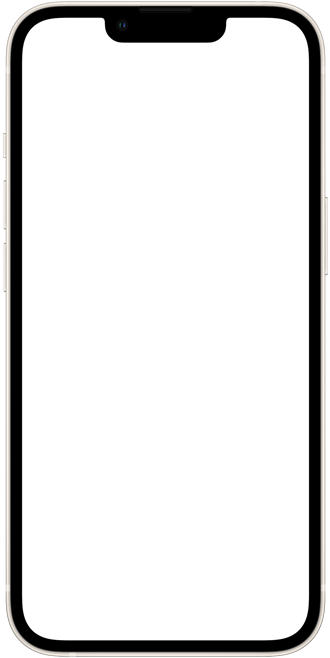
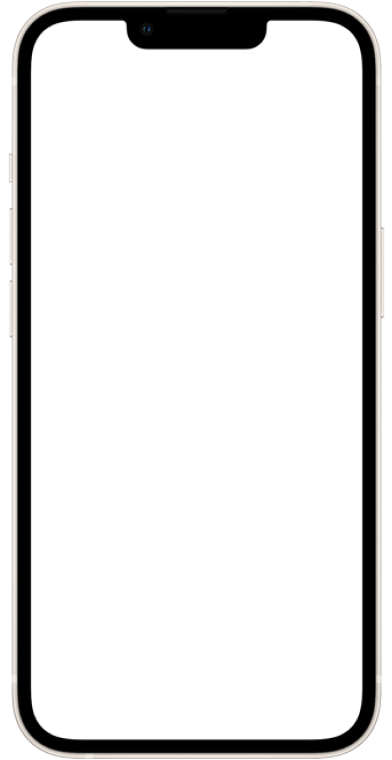
0206

diff --git a/main.js b/main.js
@@ -15,7 +15,7 @@
         {
             //section1
             scrollHeight:0,
-            heightNum:5,
+            heightNum:7,
             objs:{//조작할 돔 객체 모음
                 container: document.querySelector(".section1"),
                 centerMessage: document.querySelector('.section1-wrap .Main-title'),
@@ -38,14 +38,27 @@
 
                 image2_transition_top:[38,50,{start:0,end:0.5}], 
                 image2_transition_right:[0,50,{start:0,end:0.5}],
-                
+                image2_transition_rotate_r:[0,20,{start:0,end:0.25}],
+                image2_transition_rotate_l:[20,0,{start:0.25,end:0.5}],
+
+                image3_transition_top:[20,50,{start:0,end:0.5}], 
+                image3_transition_right:[20,50,{start:0,end:0.5}],
+                image3_transition_rotate_r:[0,20,{start:0,end:0.25}],
+                image3_transition_rotate_l:[20,0,{start:0.25,end:0.5}],
+
+                image4_transition_top:[48,50,{start:0,end:0.5}], 
+                image4_transition_right:[13,50,{start:0,end:0.5}],
+                image4_transition_rotate_r:[0,20,{start:0,end:0.25}],
+                image4_transition_rotate_l:[20,0,{start:0.25,end:0.5}],
+
+
                 image_transform_center:[0,50,{start:0,end:0.5}]  
             }
         },
         {
             //section2
             scrollHeight:0,
-            heightNum:6,
+            heightNum:8,
             objs:{//조작할 돔 객체 모음
                 container: document.querySelector(".section2"),
                 canvas:document.querySelector('#canvas-0'),
@@ -76,7 +89,7 @@
             imgElem.src = `./img/macImage/large_${0000 + i}.jpg`;
             sectionInfo[1].objs.videoImages.push(imgElem);
         }
-        console.log(sectionInfo[1].objs.videoImages)
+        // console.log(sectionInfo[1].objs.videoImages)
     }
     setCanvasImage();
 
@@ -135,7 +148,7 @@
         const currentYOffset = yOffset - prevScrollHeight;
         const scrollHeight = sectionInfo[currentScene].scrollHeight;
 		const scrollRatio = currentYOffset / scrollHeight;
-        // console.log(scrollRatio)
+        console.log(scrollRatio)
         switch(currentScene){
             case 0:
                 if(scrollRatio <=0.32){
@@ -143,30 +156,52 @@
 
                     objs.imageTransition1.style.transform = `translate3d(${calcValues(values.image_transform_center, currentYOffset)}%,${-calcValues(values.image_transform_center, currentYOffset)}%,0) rotate(${calcValues(values.image1_transition_rotate_r, currentYOffset)}deg)`
 
-                    // objs.imageTransition2.style.transform = `translate3d(${calcValues(values.image_transform_center, currentYOffset)}%,${-calcValues(values.image_transform_center, currentYOffset)}%,0)`
+                    objs.imageTransition2.style.transform = `translate3d(${calcValues(values.image_transform_center, currentYOffset)}%,${-calcValues(values.image_transform_center, currentYOffset)}%,0)`
+                    
+                    objs.imageTransition3.style.transform = `translate3d(${calcValues(values.image_transform_center, currentYOffset)}%,${-calcValues(values.image_transform_center, currentYOffset)}%,0)`
 
-                }else if(scrollRatio >0.3 && scrollRatio <= 0.5 ){
+                    objs.imageTransition4.style.transform = `translate3d(${calcValues(values.image_transform_center, currentYOffset)}%,${-calcValues(values.image_transform_center, currentYOffset)}%,0)`
+
+                }else if(scrollRatio >0.32 && scrollRatio <= 0.5 ){
                     objs.imageTransition1.style.transform = `translate3d(${calcValues(values.image_transform_center, currentYOffset)}%,${-calcValues(values.image_transform_center, currentYOffset)}%,0) rotate(${calcValues(values.image1_transition_rotate_l, currentYOffset)}deg)`
 
-                    // objs.imageTransition2.style.transform = `translate3d(${calcValues(values.image_transform_center, currentYOffset)}%,${-calcValues(values.image_transform_center, currentYOffset)}%,0)`
+                    objs.imageTransition2.style.transform = `translate3d(${calcValues(values.image_transform_center, currentYOffset)}%,${-calcValues(values.image_transform_center, currentYOffset)}%,0)`
+
+                    objs.imageTransition3.style.transform = `translate3d(${calcValues(values.image_transform_center, currentYOffset)}%,${-calcValues(values.image_transform_center, currentYOffset)}%,0)`
+
+                    objs.imageTransition4.style.transform = `translate3d(${calcValues(values.image_transform_center, currentYOffset)}%,${-calcValues(values.image_transform_center, currentYOffset)}%,0)`
                 }
 
-                if(scrollRatio <= 0.5){
+                if(scrollRatio <= 0.52){
                     objs.imageTransition1.style.top = `${calcValues(values.image1_transition_top, currentYOffset)}%`
 
                     objs.imageTransition1.style.right = `${calcValues(values.image1_transition_right, currentYOffset)}%`
 
-                    // objs.imageTransition2.style.top = `${calcValues(values.image2_transition_top, currentYOffset)}%`
+                    objs.imageTransition2.style.top = `${calcValues(values.image2_transition_top, currentYOffset)}%`
 
-                    // objs.imageTransition2.style.right = `${calcValues(values.image2_transition_right, currentYOffset)}%`
+                    objs.imageTransition2.style.right = `${calcValues(values.image2_transition_right, currentYOffset)}%`
+
+                    objs.imageTransition3.style.top = `${calcValues(values.image3_transition_top, currentYOffset)}%`
+
+                    objs.imageTransition3.style.right = `${calcValues(values.image3_transition_right, currentYOffset)}%`
+
+                    objs.imageTransition4.style.top = `${calcValues(values.image4_transition_top, currentYOffset)}%`
+
+                    objs.imageTransition4.style.right = `${calcValues(values.image4_transition_right, currentYOffset)}%`
                 }else if (scrollRatio >0.5 && scrollRatio <= 0.7){
                     objs.imageTransition1.style.opacity = calcValues(values.image1_opacity, currentYOffset);
+                    document.querySelector('.intro-wrap').classList.add('intro-show')
+                
+
                 }
+             
                 if(scrollRatio <= 0.7){
                     objs.centerMessage.style.opacity = calcValues(values.centerMessage_opacity_in, currentYOffset);
                     objs.centerMessage.style.transform = `translate3d(${calcValues(values.centerMessage_translateX_in, currentYOffset)}%, 0, 0)`;
                 }
-               
+                if(scrollRatio >= 0.85){
+                    document.querySelector('.intro-wrap').classList.remove('intro-show')
+                }
                 break;
 
             case 1:

diff --git a/css/main.css b/css/main.css
@@ -79,28 +79,45 @@ header .global-nav{
 	background-image: url('../img/movieImage.png');	
 }
 .introImage-wrap .sec1-image2{
-	background-image: url('../img/movieImage.png');	
+	background-image: url('../img/image47.png');	
 	top: 38%;
 	right: 0;
 	z-index: 4;
-	display: none;
+
 }
-/* .introImage-wrap .sec1-image3{
-	background-image: url('../img/movieImage.png');	
-	left: 50%;
+.introImage-wrap .sec1-image3{
+	background-image: url('../img/image44.png');	
+	right: 20%;
     top: 20%;
-} */
-/* .introImage-wrap .sec1-image4{
-	background-image: url('../img/movieImage.png');	
+	z-index: 2;
+}
+.introImage-wrap .sec1-image4{
+	background-image: url('../img/image45.png');	
+	right: 13%;
+    top: 48%;
+    z-index: 3;
 	
-} */
-.iphoneImage{
-	padding-top: 100vh;
+}
+.iphoneImage-sticky{
+	margin-top: 100vh;
+    display: flex;
+    align-items: center;
+    justify-content: center;
+    position: sticky;
+    top: 0;
+    width: 100%;
+    height: 100vh;
+}
+
+.iphone-content{
+	overflow: hidden;
+	position: relative;
 	display: flex;
-	align-items: center;
-	justify-content: center;
-	position: sticky;
-	top: -100%;
+}
+
+.iphone-content > img:last-child{
+	position: absolute;
+	z-index: -1;
 }
 .intro{
 	width: 100%;
@@ -108,7 +125,6 @@ header .global-nav{
 	top: 50vh;
 	transform: translateY(-50%);
 	opacity: 1;
-	animation-name: intro ;
 }
 
 .intro-wrap{
@@ -117,6 +133,19 @@ header .global-nav{
 	display: flex;
 	justify-content: space-between;
 	align-items: center;
+	opacity: 0;
+	transform: translateY(50px);
+	transition: all 2s;
+}
+.intro-wrap > h1 {
+	font-size: 4vw;
+}
+.intro-wrap .intro-dec > p{
+	margin-top: 30px;
+}
+.intro-wrap.intro-show{
+	opacity: 1;
+	transform: translateY(0);
 }
 .intro-wrap > div{
 	width: 30%;
@@ -127,11 +156,12 @@ header .global-nav{
 	position: relative;
 }
 
-.wrap {
-    display: flex;
+.section2-wrap {
+	display: flex;
     justify-content: center;
     position: sticky;
-    top: 26vh;
+    top: 50vh;
+    transform: translateY(-50%);
 }
 
 /*section3 */
@@ -139,6 +169,15 @@ header .global-nav{
 	position: sticky;
 	top: 20vh;
 }
+.device-wrap{
+	opacity: 1;
+	transition: all 1s;
+}
+.device-wrap.show{	
+	opacity: 1;
+	transform: translateX(20px);
+}
+
 .section3 .device-wrap{
 	width: 80%;
 	display: flex;

diff --git a/index.html b/index.html
@@ -37,13 +37,16 @@
                 <div class="sec1-image3"></div>
                 <div class="sec1-image4"></div>
             </div>
-            <div class="iphoneImage">
-                <img src="./img/iphone.png" alt="">   
+            <div class="iphoneImage-sticky">
+                <div class="iphone-content">
+                    <img src="./img/iphone-H2.png" alt="">   
+                    <img src="./img/Frame 11.png">
+                </div>
             </div>
             <div class="intro">
                 <div class="intro-wrap">
                     <h1 class="intro-title">Intro</h1>
-                    <div>
+                    <div class="intro-dec">
                         <h3>lorem</h3>
                         <p>
                             Lorem ipsum dolor sit amet consectetur adipisicing elit. Nesciunt obcaecati eos alias voluptatum consequuntur, odit tempora esse hic eligendi quas distinctio quisquam non vero cum architecto facere, ducimus asperiores. Mollitia.
@@ -54,7 +57,7 @@
             <p>creat by Lee</p>
         </section>
         <section class="section2">
-            <div class="wrap">
+            <div class="section2-wrap">
                 <canvas id="canvas-0" width="1336" height="786" ></canvas>
             </div>
         </section>

diff --git a/README.md b/README.md
@@ -2,7 +2,7 @@
 postition: stick 는 부모컨테이너 기준이다.
 
 ##check List
-#####section1 
+#####section1 구현
 - [x]  디자인 구현 구상 
 - [x]  center Massege 스크롤 값에 따른 이동 구현
 - [x]  image4개 스크롤 값에 따라 뷰포트 정중앙에 이동
@@ -10,3 +10,7 @@ postition: stick 는 부모컨테이너 기준이다.
     - [ ] 각도까지 디테일하게 구현하기
 - [x]  해당 섹션만 아이폰 고정 
 - [ ]  스크롤 값에 따라 아이폰 내부 이미지 변경
+
+#####section1 문제점
+
+- [ ] 반응형 고려시 폰 sticky 위치값이 이상함
